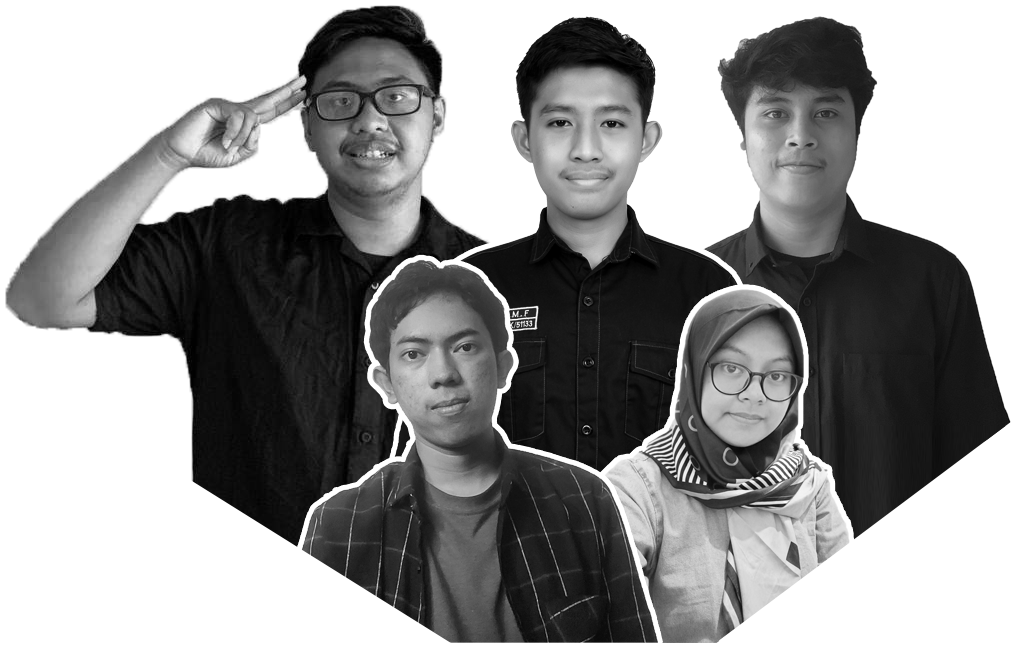
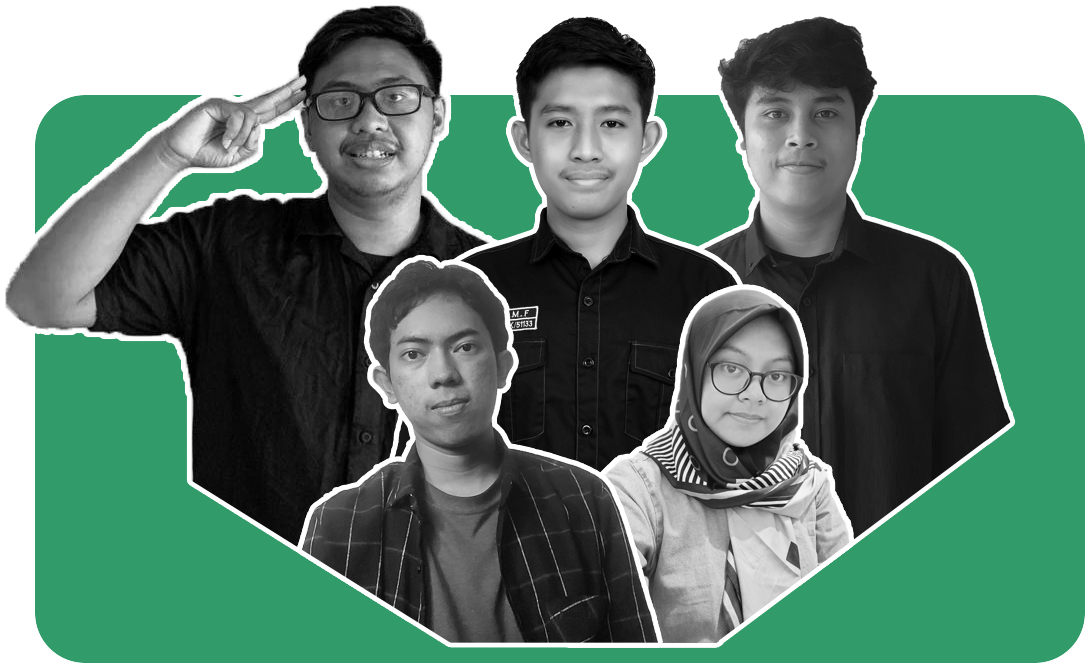
update styling Homepage

diff --git a/client/src/components/home/aboutUs.jsx b/client/src/components/home/aboutUs.jsx
@@ -1,13 +1,13 @@
 import React from "react";
-import MeetOurTeam from "../../assets/MeetOurTeam.svg";
+import Team from "../../assets/team.png";
+import { Link } from "react-router-dom";
 
 function AboutUs() {
   return (
     <div
       id="section-3"
       name="aboutus"
-      className="bg-white pt-48 font-Roboto h-screen w-screen flex "
-    >
+      className="bg-white pt-48 font-Roboto h-screen w-screen flex ">
       <div className="md:grid-cols-2 grid mt-16 sm:mt-0 md:flex-row flex-col gap-5 w-screen h-1/2">
         <div className="justify-center md:ml-16">
           <div className="text-black text-center font-black text-4xl content-center md:text-left">
@@ -22,9 +22,11 @@ function AboutUs() {
             development.
           </div>
           <div className="flex justify-center md:justify-start">
-            <button class="bg-[#319C69] font-medium py-3 px-7 rounded-lg text-xl text-white mt-5 md:mt-10 hover:bg-[#263238]">
+            <Link to="/register">
+              <button class="bg-[#319C69] text-white md:text-left font-medium py-3 px-7 rounded-lg my-16 text-xl hover:bg-[#263238] hover:text-white">
               Get Started
-            </button>
+              </button>
+            </Link>
           </div>
         </div>
 
@@ -33,8 +35,8 @@ function AboutUs() {
             <div className="flex justify-center text-black text-center font-black text-4xl">
               Meet our Team
             </div>
-            <div className="flex justify-center mt-8">
-              <img src={MeetOurTeam} alt="meet our team" />
+            <div className="flex justify-center">
+              <img src={Team} className="scale-75" alt="our team" />
             </div>
           </div>
         </div>

diff --git a/client/src/components/home/homepage.jsx b/client/src/components/home/homepage.jsx
@@ -1,6 +1,7 @@
 import React from "react";
 import Illustration from "../../assets/Illustration.png";
 import { Link } from "react-router-dom";
+
 function Homepage() {
   return (
     <div className="bg-[#319C69] h-screen w-full font-Roboto">
@@ -40,7 +41,7 @@ function Homepage() {
               </Link>
             </li>
             <li>
-              <Link to="/signup" className="hover:text-[#263238]">
+              <Link to="/register" className="hover:text-[#263238]">
                 Register
               </Link>
             </li>
@@ -64,9 +65,11 @@ function Homepage() {
           </div>
 
           <div className="flex justify-center md:justify-start">
-            <button class="bg-[#F3F3F3] justify-center md:text-left md:ml-32 font-medium py-3 px-7 rounded-lg my-16 text-xl hover:bg-[#263238] hover:text-white">
+            <Link to="/register">
+              <button class="bg-[#F3F3F3] justify-center md:text-left md:ml-32 font-medium py-3 px-7 rounded-lg my-16 text-xl hover:bg-[#263238] hover:text-white">
               Get Started
-            </button>
+              </button>
+            </Link>
           </div>
         </div>
 
